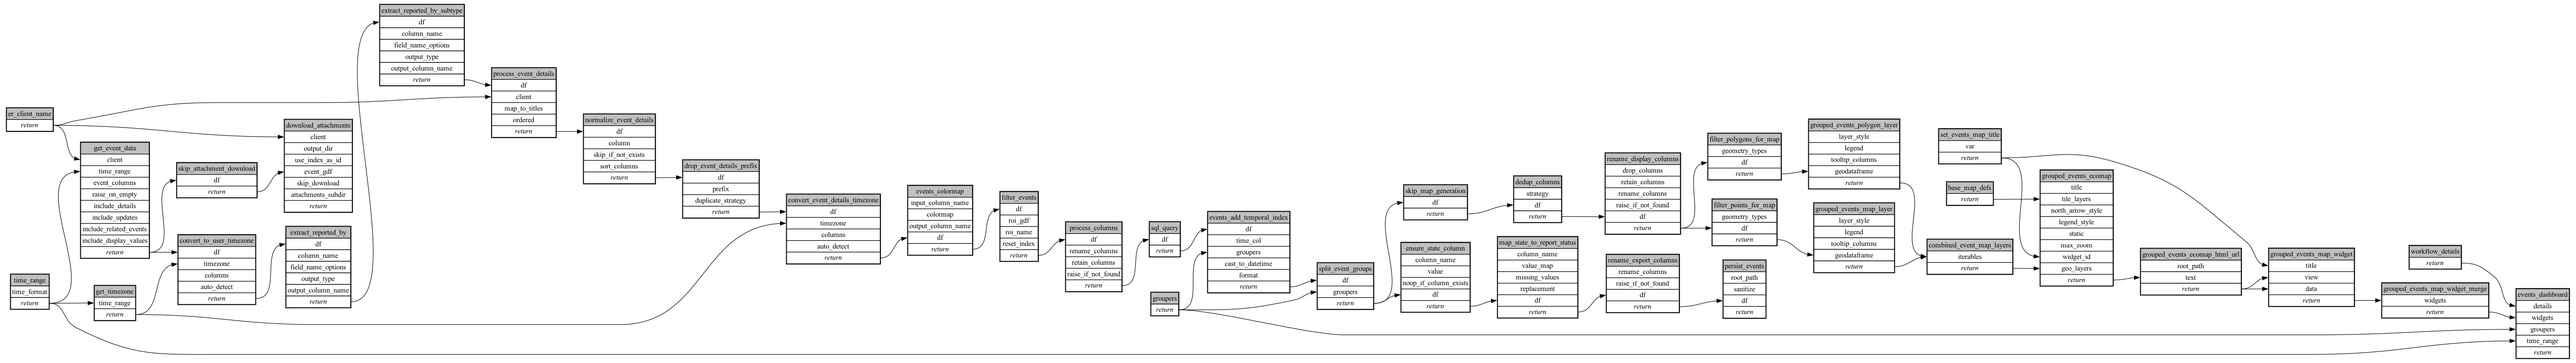
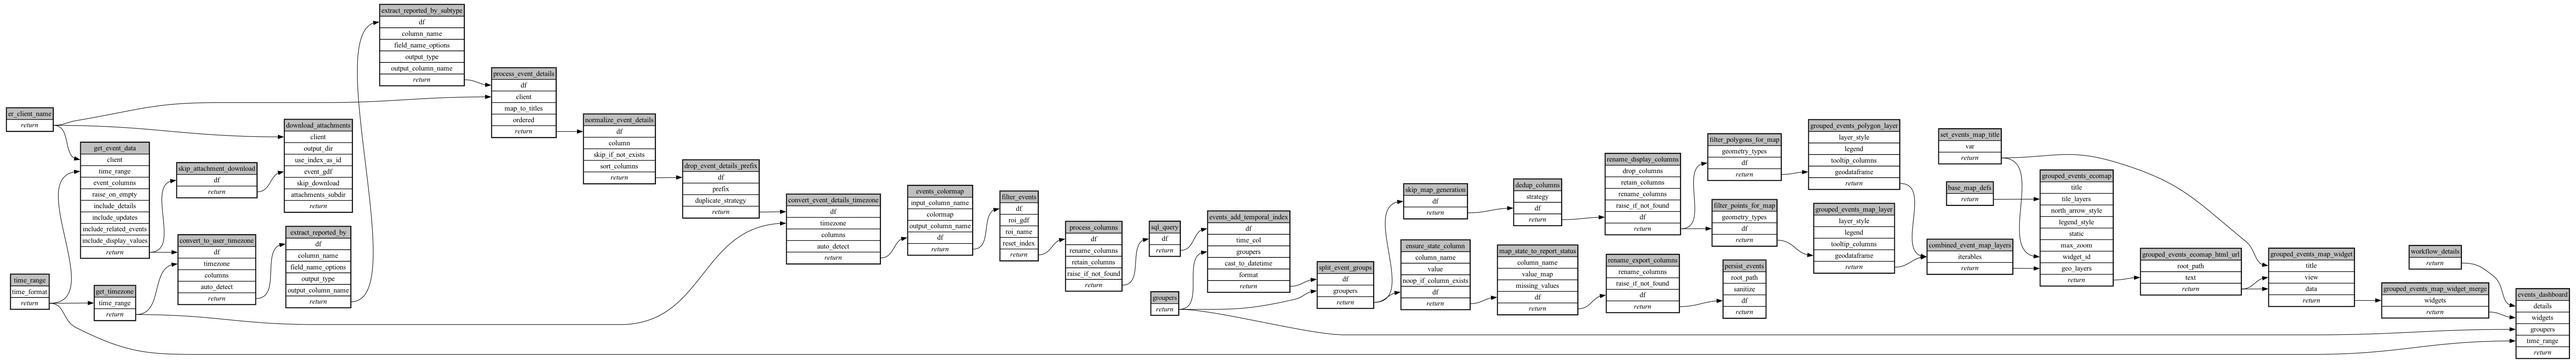
fix: preserve null state instead of synthesizing 'Active' when missing
Validated against real ER (mep_dev with-details case): ER returns the
state column for all events when get_events is called with
event_columns=null. So the state column is reliably present in
production. The ensure_state_column step is only needed for auto-mocks
and users who customize event_columns to exclude state.

Previous implementation defaulted missing state to "active", which would
then map to "Active" — silently inventing a status. New behavior:
- Default to null on missing column
- Use map_values missing_values=preserve, explicitly mapping
  active/new->Active and resolved->Resolved
- Nulls pass through to an empty Report_Status cell

Verified outputs:
- base (auto-mock, no state): Report_Status empty
- polygon-events (fixture with state): Active/Resolved per row
- with-details (real ER, 54 rows): all Active (matches actual data)

diff --git a/ecoscope-workflows-download-events-workflow/ecoscope_workflows_download_events_workflow/formdata.py b/ecoscope-workflows-download-events-workflow/ecoscope_workflows_download_events_workflow/formdata.py
@@ -82,6 +82,17 @@ class SqlQuery(BaseModel):
     )
 
 
+class MapStateToReportStatus(BaseModel):
+    model_config = ConfigDict(
+        extra="forbid",
+    )
+    replacement: Optional[str] = Field(
+        None,
+        description="The replacement for values not in value_map.",
+        title="Replacement",
+    )
+
+
 class RenameExportColumns(BaseModel):
     model_config = ConfigDict(
         extra="forbid",
@@ -427,6 +438,9 @@ class FormData(BaseModel):
         None,
         alias="Process Events",
         description="Process events by applying filters, SQL queries, etc. Note that the data here includes all the columns from the previous steps and the normalized event details.",
+    )
+    map_state_to_report_status: Optional[MapStateToReportStatus] = Field(
+        None, title="Map State to Report Status"
     )
     rename_export_columns: Optional[RenameExportColumns] = Field(
         None, title="Rename Columns for Export"

diff --git a/ecoscope-workflows-download-events-workflow/ecoscope_workflows_download_events_workflow/params.py b/ecoscope-workflows-download-events-workflow/ecoscope_workflows_download_events_workflow/params.py
@@ -62,6 +62,17 @@ class SqlQuery(BaseModel):
     )
 
 
+class MapStateToReportStatus(BaseModel):
+    model_config = ConfigDict(
+        extra="forbid",
+    )
+    replacement: Optional[str] = Field(
+        None,
+        description="The replacement for values not in value_map.",
+        title="Replacement",
+    )
+
+
 class RenameExportColumns(BaseModel):
     model_config = ConfigDict(
         extra="forbid",
@@ -389,6 +400,9 @@ class Params(BaseModel):
     process_columns: Optional[ProcessColumns] = Field(None, title="Preprocess Columns")
     sql_query: Optional[SqlQuery] = Field(None, title="Apply SQL Query")
     groupers: Optional[Groupers] = Field(None, title="Group Data")
+    map_state_to_report_status: Optional[MapStateToReportStatus] = Field(
+        None, title="Map State to Report Status"
+    )
     rename_export_columns: Optional[RenameExportColumns] = Field(
         None, title="Rename Columns for Export"
     )

diff --git a/ecoscope-workflows-download-events-workflow/ecoscope_workflows_download_events_workflow/dags/run_sequential.py b/ecoscope-workflows-download-events-workflow/ecoscope_workflows_download_events_workflow/dags/run_sequential.py
@@ -503,7 +503,7 @@ def main(params: Params):
         )
         .partial(
             column_name="state",
-            value="active",
+            value=None,
             noop_if_column_exists=True,
             **(params_dict.get("ensure_state_column") or {}),
         )
@@ -525,9 +525,8 @@ def main(params: Params):
         )
         .partial(
             column_name="state",
-            value_map={"resolved": "Resolved"},
-            missing_values="replace",
-            replacement="Active",
+            value_map={"resolved": "Resolved", "active": "Active", "new": "Active"},
+            missing_values="preserve",
             **(params_dict.get("map_state_to_report_status") or {}),
         )
         .mapvalues(argnames=["df"], argvalues=ensure_state_column)

diff --git a/ecoscope-workflows-download-events-workflow/ecoscope_workflows_download_events_workflow/dags/run_sequential_mock_io.py b/ecoscope-workflows-download-events-workflow/ecoscope_workflows_download_events_workflow/dags/run_sequential_mock_io.py
@@ -523,7 +523,7 @@ def main(params: Params):
         )
         .partial(
             column_name="state",
-            value="active",
+            value=None,
             noop_if_column_exists=True,
             **(params_dict.get("ensure_state_column") or {}),
         )
@@ -545,9 +545,8 @@ def main(params: Params):
         )
         .partial(
             column_name="state",
-            value_map={"resolved": "Resolved"},
-            missing_values="replace",
-            replacement="Active",
+            value_map={"resolved": "Resolved", "active": "Active", "new": "Active"},
+            missing_values="preserve",
             **(params_dict.get("map_state_to_report_status") or {}),
         )
         .mapvalues(argnames=["df"], argvalues=ensure_state_column)

diff --git a/ecoscope-workflows-download-events-workflow/README.md b/ecoscope-workflows-download-events-workflow/README.md
@@ -6,9 +6,9 @@
 ```yaml
 # fingerprint:
 artifacts_sha256_basic: 
[2 lines of base64/hex data omitted]
 artifacts_sha256_strict: 
[2 lines of base64/hex data omitted]
 installed_requirements:
 - channel: https://repo.prefix.dev/ecoscope-workflows/
   name: ecoscope-platform
@@ -16,8 +16,8 @@ installed_requirements:
 - channel: https://repo.prefix.dev/ecoscope-workflows-custom/
   name: ecoscope-workflows-ext-custom
   version: {version: ==0.1.0rc6}
-params_sha256: 8caf5885c279dd369e46f4f2f972ca691c4ef78e96e9d073ba512c1b48843144
-spec_sha256: b1cb41980669205bb08429d0bee859cbc0e408d56a96722bf2bca69a5520fb3e
+params_sha256: da3bfdce2eda5e11297325978bc9dec84adc7f38a49f3f0a5dc23cd86bcc71fd
+spec_sha256: 8a94034b247a5f033240e3ec74c98a55da28075a52327f79ce62184e5fab4158
 
 ```
 
